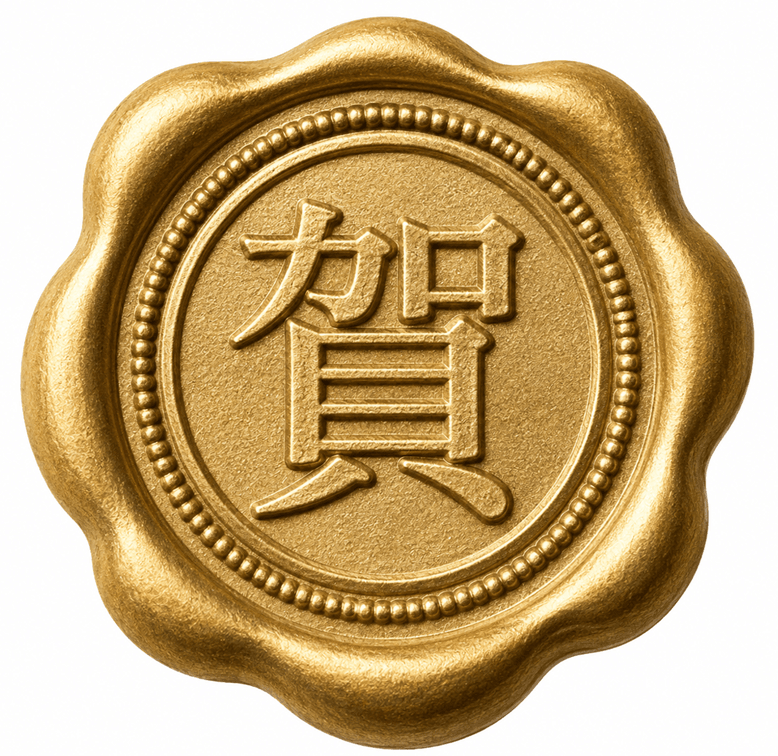
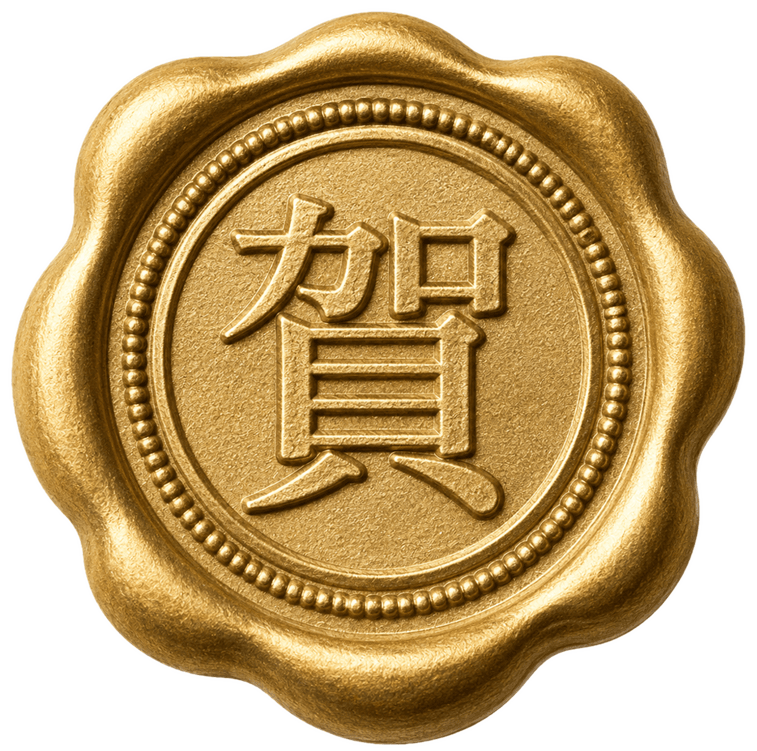
Apply final mobile design refinements

diff --git a/style.css b/style.css
@@ -582,6 +582,7 @@ img {
 }
 
 .course-section {
+  padding-top: 42px;
   background: linear-gradient(180deg, var(--cream), #eef6ff);
 }
 
@@ -628,6 +629,10 @@ img {
 .schedule-card a {
   color: var(--green);
   font-weight: 900;
+}
+
+.course-card a {
+  font-size: calc(1em + 6pt);
 }
 
 .course-card.emphasized a {
@@ -711,7 +716,142 @@ img {
   padding: 26px;
 }
 
+.why-section {
+  background: var(--cream);
+}
+
+.advantage-flow-panel {
+  position: relative;
+  overflow: hidden;
+  padding: 74px 80px 82px;
+  border: 2px solid rgba(218, 188, 133, 0.34);
+  border-radius: 44px;
+  background: linear-gradient(180deg, rgba(255, 248, 236, 0.94), rgba(255, 248, 236, 0.86));
+}
+
+.advantage-flow-panel::before,
+.advantage-flow-panel::after {
+  content: "";
+  position: absolute;
+  border-radius: 50%;
+  pointer-events: none;
+}
+
+.advantage-flow-panel::before {
+  top: 26px;
+  left: -210px;
+  width: 430px;
+  height: 430px;
+  background: rgba(255, 255, 255, 0.78);
+}
+
+.advantage-flow-panel::after {
+  right: -190px;
+  bottom: -220px;
+  width: 420px;
+  height: 420px;
+  background: rgba(229, 243, 255, 0.82);
+}
+
+.advantage-flow-heading {
+  position: relative;
+  z-index: 1;
+  max-width: 820px;
+  margin: 0 auto 70px;
+  text-align: center;
+}
+
+.advantage-flow-heading .eyebrow {
+  color: #7c8797;
+  font-size: 24px;
+}
+
+.advantage-flow-heading h2 {
+  margin: 0 0 28px;
+  color: var(--navy);
+  font-size: clamp(38px, 6vw, 62px);
+  line-height: 1.18;
+  letter-spacing: 0;
+}
+
+.advantage-flow-heading p {
+  margin: 0 auto;
+  max-width: 760px;
+  color: #69778a;
+  font-size: 26px;
+  font-weight: 700;
+  line-height: 1.55;
+}
+
+.advantage-flow-list {
+  position: relative;
+  z-index: 1;
+  display: grid;
+  gap: 54px;
+  max-width: 860px;
+  margin: 0 auto;
+}
+
+.advantage-flow-card {
+  position: relative;
+  display: grid;
+  grid-template-columns: auto minmax(0, 1fr);
+  gap: 30px;
+  align-items: center;
+  min-height: 138px;
+  padding: 28px 34px;
+  border: 2px solid rgba(30, 90, 168, 0.13);
+  border-radius: 26px;
+  background: rgba(255, 255, 255, 0.95);
+  box-shadow: 12px 14px 0 rgba(218, 188, 133, 0.26);
+}
+
+.advantage-flow-card:not(:last-child)::after {
+  content: "";
+  position: absolute;
+  left: 50%;
+  bottom: -42px;
+  width: 0;
+  height: 0;
+  border-left: 18px solid transparent;
+  border-right: 18px solid transparent;
+  border-top: 30px solid rgba(218, 174, 91, 0.92);
+  transform: translateX(-50%);
+}
+
+.advantage-flow-number {
+  display: inline-flex;
+  align-items: center;
+  justify-content: center;
+  width: 74px;
+  height: 74px;
+  border-radius: 50%;
+  color: #fff;
+  background:
+    radial-gradient(circle, #235f86 0 45%, #103852 46% 100%);
+  border: 10px solid #0b304a;
+  font-size: 25px;
+  font-weight: 900;
+  letter-spacing: 0;
+}
+
+.advantage-flow-card h3 {
+  margin: 0 0 6px;
+  color: var(--navy);
+  font-size: 36px;
+  line-height: 1.18;
+}
+
+.advantage-flow-card p {
+  margin: 0;
+  color: #69778a;
+  font-size: 24px;
+  font-weight: 700;
+  line-height: 1.4;
+}
+
 .trial-section {
+  padding-top: 42px;
   background: linear-gradient(135deg, #fff8ec, #eef6ff);
 }
 
@@ -941,6 +1081,90 @@ textarea:focus {
 
   .section {
     padding: 66px 0;
+  }
+
+  .course-section {
+    padding-top: 38px;
+  }
+
+  .trial-section {
+    padding-top: 38px;
+  }
+
+  .why-section {
+    padding: 38px 0;
+  }
+
+  .advantage-flow-panel {
+    width: calc(100% - 28px);
+    padding: 46px 20px 54px;
+    border-radius: 32px;
+  }
+
+  .advantage-flow-panel::before {
+    top: 34px;
+    left: -210px;
+    width: 330px;
+    height: 330px;
+  }
+
+  .advantage-flow-panel::after {
+    right: -170px;
+    bottom: -150px;
+    width: 300px;
+    height: 300px;
+  }
+
+  .advantage-flow-heading {
+    margin-bottom: 46px;
+  }
+
+  .advantage-flow-heading .eyebrow {
+    font-size: 18px;
+  }
+
+  .advantage-flow-heading h2 {
+    margin-bottom: 22px;
+    font-size: clamp(32px, 9vw, 42px);
+  }
+
+  .advantage-flow-heading p {
+    font-size: 20px;
+  }
+
+  .advantage-flow-list {
+    gap: 38px;
+  }
+
+  .advantage-flow-card {
+    min-height: 104px;
+    grid-template-columns: auto minmax(0, 1fr);
+    gap: 16px;
+    padding: 20px 18px;
+    border-radius: 22px;
+    box-shadow: 8px 10px 0 rgba(218, 188, 133, 0.26);
+  }
+
+  .advantage-flow-card:not(:last-child)::after {
+    bottom: -31px;
+    border-left-width: 14px;
+    border-right-width: 14px;
+    border-top-width: 24px;
+  }
+
+  .advantage-flow-number {
+    width: 58px;
+    height: 58px;
+    border-width: 8px;
+    font-size: 20px;
+  }
+
+  .advantage-flow-card h3 {
+    font-size: 27px;
+  }
+
+  .advantage-flow-card p {
+    font-size: 17px;
   }
 
   .nav-wrap {
@@ -3053,10 +3277,10 @@ textarea:focus {
 .honor-opening-copy::after {
   content: "";
   position: absolute;
-  top: 42px;
-  right: 44px;
-  width: 112px;
-  height: 112px;
+  top: 34px;
+  right: 34px;
+  width: 138px;
+  height: 138px;
   border-radius: 50%;
   background: url("images/honor-congrats-seal.png") center / contain no-repeat;
   filter: drop-shadow(0 14px 24px rgba(126, 84, 15, 0.20));
@@ -3110,6 +3334,10 @@ textarea:focus {
   display: block;
   width: fit-content;
   white-space: nowrap;
+}
+
+.honor-title span:nth-child(2) {
+  color: var(--green-2);
 }
 
 .honor-title span:last-child::after {
@@ -3200,21 +3428,21 @@ textarea:focus {
 
   .honor-opening {
     gap: 8px;
-    margin-bottom: 12px;
+    margin-bottom: 8px;
   }
 
   .honor-opening-copy {
     grid-template-columns: 1fr;
     gap: 16px;
-    padding: 32px 24px;
+    padding: 32px 24px 8px;
     border-radius: 24px;
   }
 
   .honor-opening-copy::after {
-    top: 26px;
-    right: 28px;
-    width: 86px;
-    height: 86px;
+    top: 18px;
+    right: 18px;
+    width: 116px;
+    height: 116px;
     filter: drop-shadow(0 10px 18px rgba(126, 84, 15, 0.18));
   }
 
@@ -3225,14 +3453,14 @@ textarea:focus {
   .honor-student-visual {
     align-self: start;
     width: calc(100% + 32px);
-    aspect-ratio: 1.18 / 1;
+    aspect-ratio: 1.38 / 1;
     margin: -2px -16px 0;
     border-radius: 20px;
   }
 
   .honor-student-visual img {
     object-fit: cover;
-    object-position: center 40%;
+    object-position: center 54%;
   }
 
   .honor-proof-panel {

diff --git a/index.html b/index.html
@@ -146,7 +146,7 @@
     <div class="honor-opening">
       <div class="honor-opening-copy">
         <div class="honor-copy-text">
-          <p class="eyebrow">榮譽牆</p>
+          <p class="eyebrow">HONOR ROLL</p>
           <h2 class="honor-title">
             <span>分數會說話，</span>
             <span>實力看得見，</span>
@@ -618,18 +618,42 @@
     </section>
 
     <section class="section why-section">
-      <div class="container">
-        <div class="section-heading">
+      <div class="container advantage-flow-panel">
+        <div class="advantage-flow-heading">
           <p class="eyebrow">Advantages</p>
-          <h2>為什麼中央補習班能做出區隔？</h2>
-          <p>把「補課」升級成「資優培養系統」，讓家長看見更清楚的學習路徑與成果承諾。</p>
+          <h2>中央補習班的培養系統</h2>
+          <p>從資優培養到成果驗證，讓家長看見孩子升學競爭力的累積路徑。</p>
         </div>
 
-        <div class="why-grid why-grid-elite">
-          <article><h3>資優培養</h3><p>從觀念、邏輯、解題策略訓練孩子面對高階題型的能力。</p></article>
-          <article><h3>數理強項</h3><p>以數學、自然、理化為核心，打造中央補習班最鮮明的品牌記憶點。</p></article>
-          <article><h3>榜單信任</h3><p>用校排、段考、進步榜與升學成果，讓家長快速理解教學成效。</p></article>
-          <article><h3>雙校區服務</h3><p>建中校與成功校共同承接台南在地家長的升學需求。</p></article>
+        <div class="advantage-flow-list" aria-label="中央補習班培養系統流程">
+          <article class="advantage-flow-card">
+            <span class="advantage-flow-number">01</span>
+            <div>
+              <h3>資優培養</h3>
+              <p>先養成高階思考與解題習慣</p>
+            </div>
+          </article>
+          <article class="advantage-flow-card">
+            <span class="advantage-flow-number">02</span>
+            <div>
+              <h3>數理強項</h3>
+              <p>建立數學、自然、理化核心能力</p>
+            </div>
+          </article>
+          <article class="advantage-flow-card">
+            <span class="advantage-flow-number">03</span>
+            <div>
+              <h3>榜單信任</h3>
+              <p>用段考、校排與升學成果驗證成效</p>
+            </div>
+          </article>
+          <article class="advantage-flow-card">
+            <span class="advantage-flow-number">04</span>
+            <div>
+              <h3>雙校區服務</h3>
+              <p>建中、成功校區承接在地升學需求</p>
+            </div>
+          </article>
         </div>
       </div>
     </section>